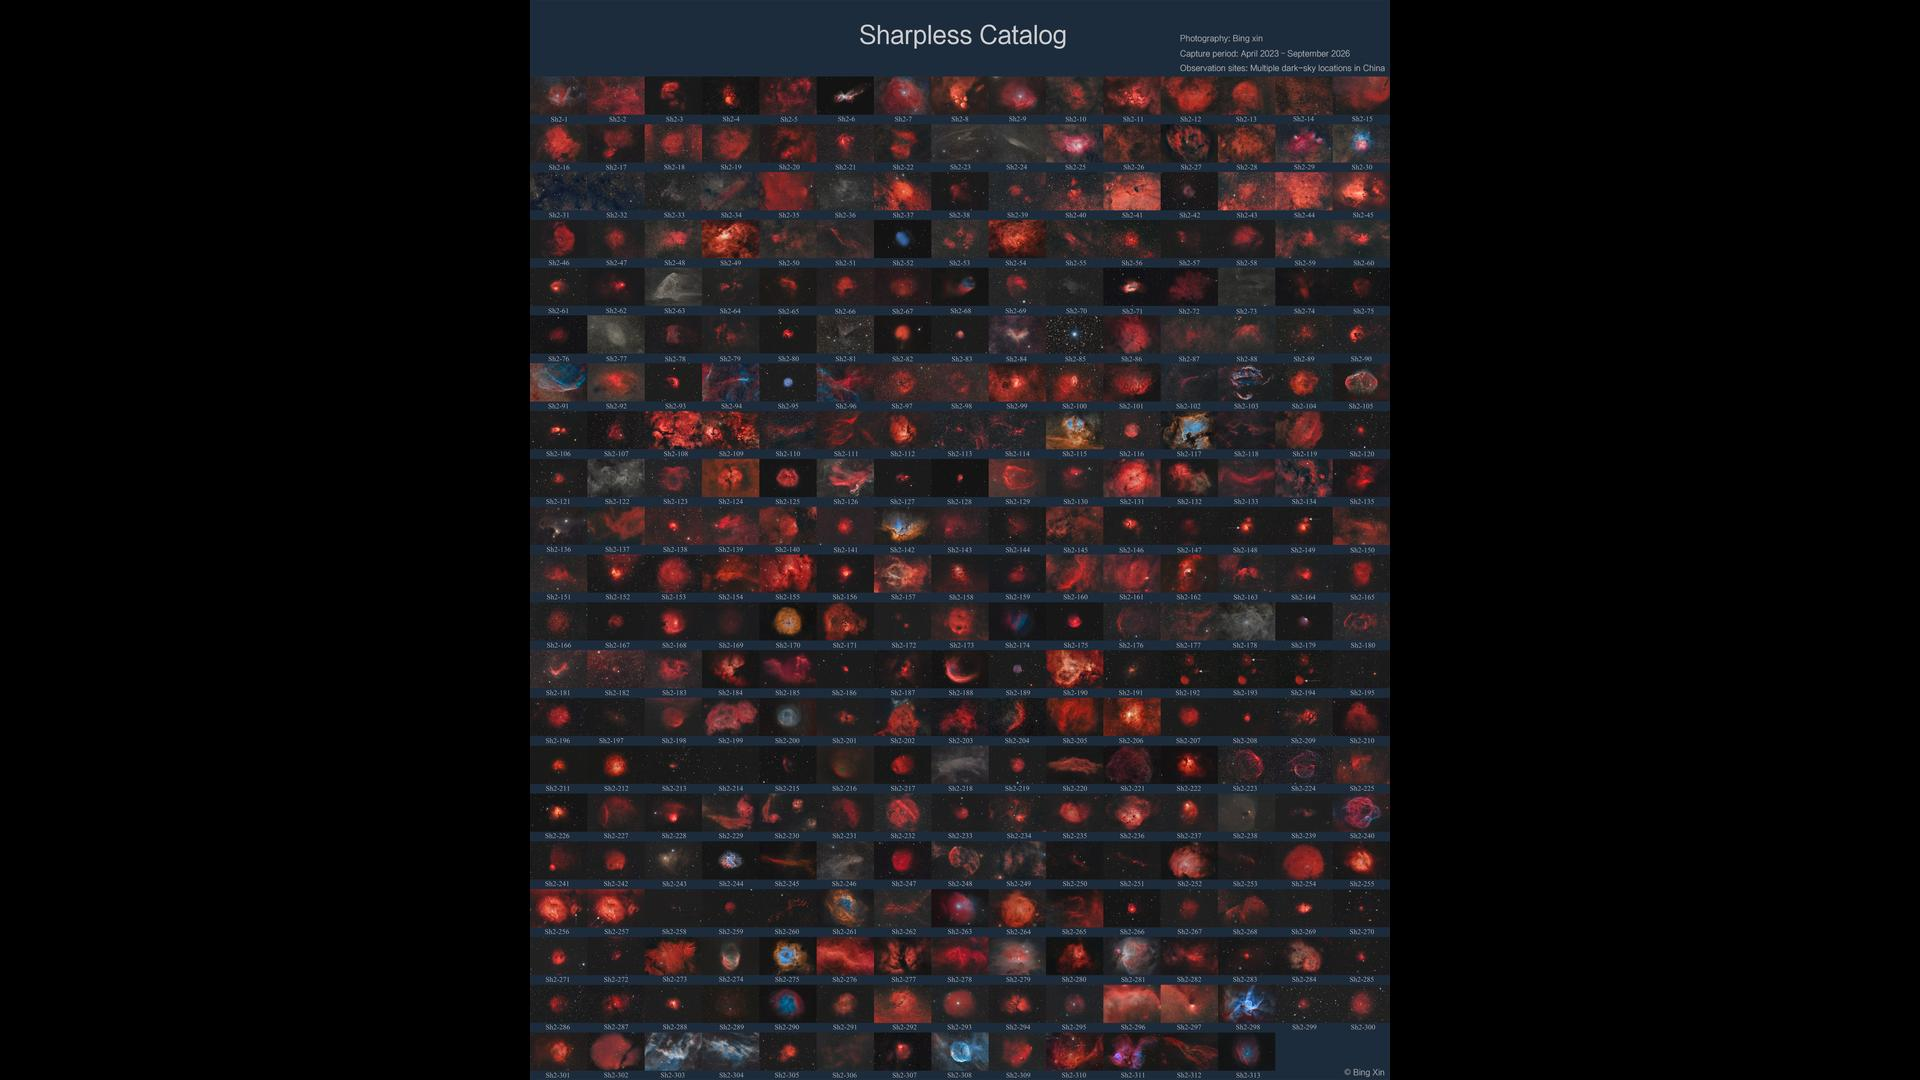
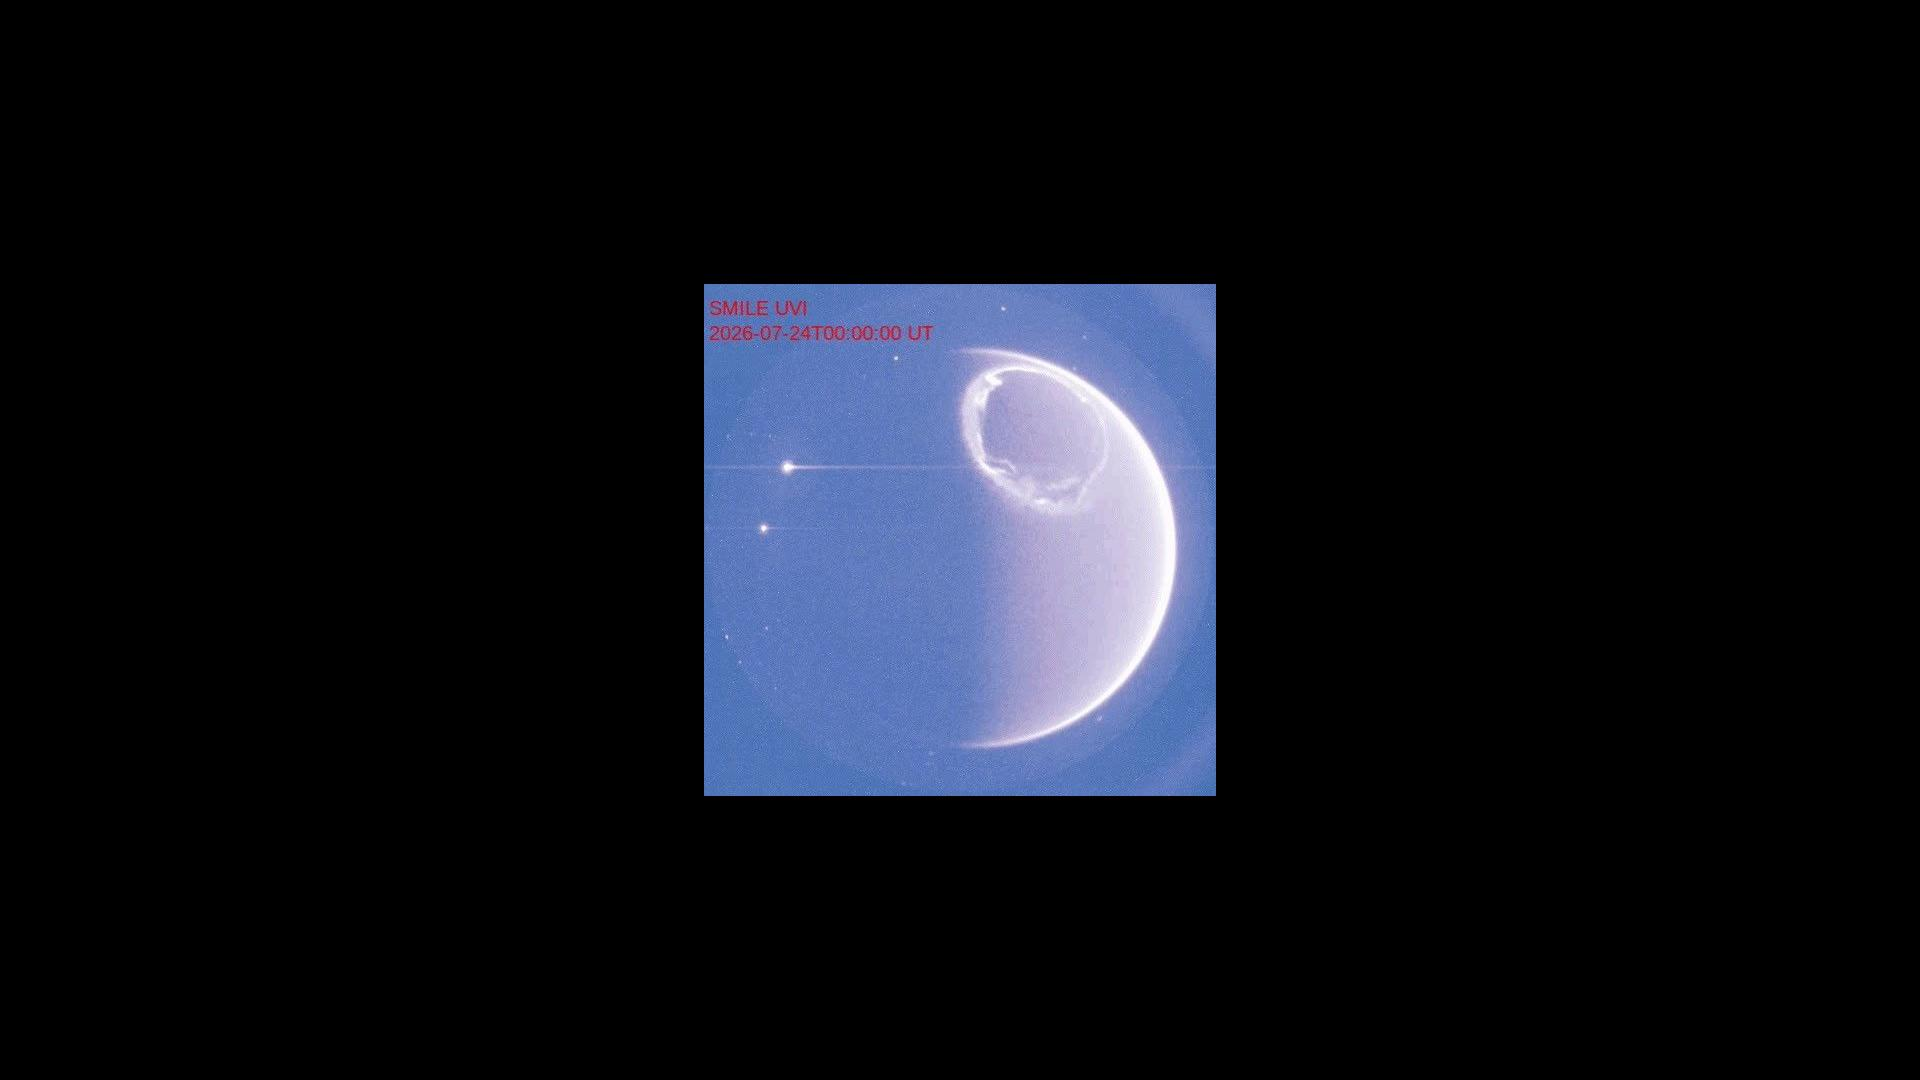
Added the ability to copy the text, copy image and save image
Added copy functionality to the text (ctrl c) and to the image (right clicking image). Right clicking the image also allows users to save the image in its native format ie jpeg, png or gif.

diff --git a/NASA_Wallpaper.py b/NASA_Wallpaper.py
@@ -1,14 +1,18 @@
 import os
 import re
+import io
 import html
 import requests
 import ctypes
 import cv2
+import shutil
 import webbrowser
+import win32clipboard
 from PIL import Image, ImageTk
 from dotenv import load_dotenv
 from urllib.parse import urlparse
 import tkinter as tk
+from tkinter import filedialog
 
 
 APOD_API = "https://science.nasa.gov/wp-json/wp/v2/apod-basic/"
@@ -270,11 +274,16 @@ def display_window(apod_title, apod_description, apod_image_path, apod_fitted_im
 
     # Sets the size of the window
     display.geometry("500x650")
-
+    display.resizable(False, False)
+    
     # Resizes and adds the image to the application
     if media_type == "image":
-        img = Image.open(apod_image_path) 
-        image_panel = tk.Label(display) 
+        img = Image.open(apod_image_path)
+        image_panel = tk.Label(display)
+        save_menu = tk.Menu(display, tearoff=0)
+        save_menu.add_command(label = "Save Image As...", command=lambda: save_image(apod_image_path))
+        save_menu.add_command(label = "Copy Image", command=lambda: copy_image(apod_image_path))
+        image_panel.bind("<Button-3>", lambda event: save(event,save_menu))
         image_panel.pack(side="top", fill="both", expand=True)
 
         if getattr(img, "is_animated", False):
@@ -285,8 +294,9 @@ def display_window(apod_title, apod_description, apod_image_path, apod_fitted_im
             
             img.thumbnail((500,400), Image.Resampling.LANCZOS)
             image = ImageTk.PhotoImage(img)
-            image_panel = tk.Label(display, image = image)
-            image_panel.pack(side = "top", fill = "both", expand = "yes")
+            image_panel.config(image = image)
+            image_panel.image = image
+            #image_panel.pack(side = "top", fill = "both", expand = "yes")
     
     elif media_type == "video":
         video_panel = tk.Label(display)
@@ -294,8 +304,13 @@ def display_window(apod_title, apod_description, apod_image_path, apod_fitted_im
         play_video(apod_video_url, video_panel)
 
     #adds the text description of the application
-    label_text = tk.Label(display, text = apod_description, wraplength=450)
-    label_text.pack(side = "top", fill = "both", expand = "yes")
+    background = display.cget("bg")
+    label_text = tk.Text(display, wrap="word",borderwidth=0, highlightthickness=0, height=10, bg=background)
+    label_text.insert("0.1", apod_description)
+    label_text.config(state="disabled")
+    label_text.pack(side = "top", fill = "both", expand = False)
+
+    
 
     button_frame = tk.Frame(display)
     button_frame.pack(pady=10)
@@ -372,4 +387,29 @@ def play_gif(gif_path, image_panel):
 
     update_frame(0)
 
+def save(event, menu):
+    """When used, create a menu to save the file"""
+    menu.tk_popup(event.x_root, event.y_root)
+
+def save_image(apod_image_path):
+    """Get the save location and save the file there"""
+    save_location = filedialog.asksaveasfilename(initialfile=os.path.basename(apod_image_path))
+    if save_location:
+        shutil.copy(apod_image_path,save_location)
+
+def copy_image(apod_image_path):
+    """Copy the image to the clipboard"""
+    with Image.open(apod_image_path) as img:
+        with io.BytesIO() as output:
+            img.convert("RGB").save(output,"BMP")
+            bit_data = output.getvalue()
+            bit_data = bit_data[14:]
+            #Now put it in the clipboard
+            win32clipboard.OpenClipboard()
+            try:
+                win32clipboard.EmptyClipboard()
+                win32clipboard.SetClipboardData(win32clipboard.CF_DIB,bit_data)
+
+            finally:
+                win32clipboard.CloseClipboard()
 main()
